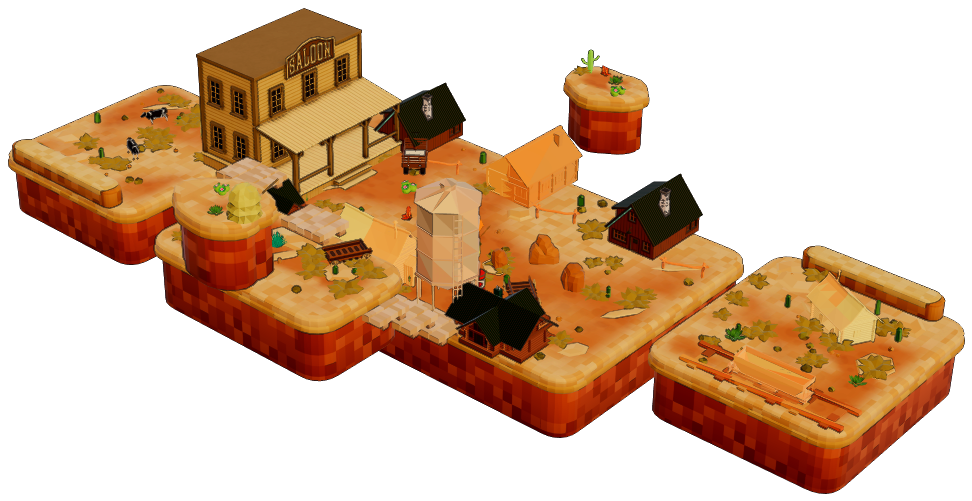
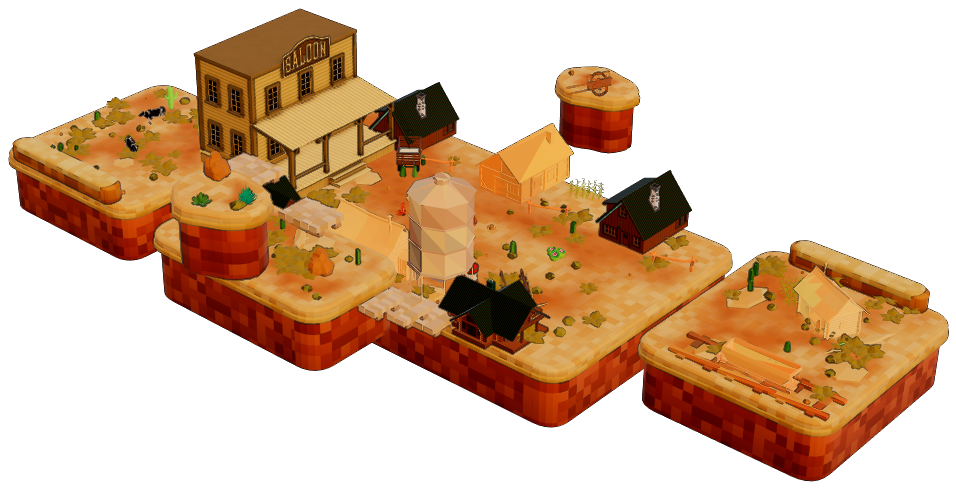
BARCO + NO1314 (Toni 28/08): el mar pirata recupera su barco, y el generador deja de amenazar dos caratulas que estaban bien
Toni: "el cover de la pantalla de los piratas en el selector derecho, falta el barco pirata, no ha
salido en la imagen".

No era que faltara: era que se le habia borrado el CASCO y habian quedado los muebles. El barco
cuelga de la raiz (scene.add(G), HTML:33926), no de la cinta, asi que no lo apagaba el culling de
segmentos — lo mataba el filtrado de este arnes, y por partida triple:
  :148  szG.x > 55   -> el casco es UNA sola malla y PIR_SHIP_L = 60 clava la eslora en 60
  :150  ctG.y > 16   -> con PIR_SHIP_Y=-2 y hull.y = PIR_SHIP_Y+halfH, el centro cae en ~18.4
  :116  wp.y > 16    -> y este ni siquiera usa el bbox, usa getWorldPosition
Los canones y barriles de cubierta miden 2-3 u y pasaban los tres cortes: de ahi los CANONES
FLOTANDO EN EL VACIO que tenia la caratula vieja.

Se arregla con LISTA BLANCA, no aflojando umbrales. Aflojarlos para el 12 (55->65, 16->40) dejaria
entrar tambien cualquier otra cosa de ese stage que midiera o volara en esos rangos, que es justo
lo que esos numeros estan ahi para matar (mega-suelos y mares de nubes, ver _captura_isla.js:96); y
el corte de :116 no se puede afinar a ojo porque no mide el bbox. `keep:['PIR.ship']` dice la
intencion — el barco ES la isla del mundo 12 — y se autolimita solo, porque PIR.ship solo existe con
STAGE=12. De paso los cuatro umbrales pasan a ser C.maxSz/maxY/minY/pad con los valores de hoy por
defecto: ninguna otra fila los pone, asi que nada cambia, pero queda la palanca.
[…]

Changed region(s): [[0.0, 0.0613, 1.0, 1.0], [0.3033, 0.0, 0.3337, 0.0307], [0.273, 0.0307, 0.3033, 0.0613]]

diff --git a/_captura_islas_todas.js b/_captura_islas_todas.js
@@ -32,12 +32,23 @@ const STAGES = [
   { st: 11, rx: 30, rz: 26, cz: 0  },
   { st: 4,  rx: 32, rz: 27, cz: 0  },
   { st: 5,  rx: 30, rz: 26, cz: 0  },
-  { st: 12, rx: 32, rz: 27, cz: 0  },
+  /* ►BARCO (Toni 28/08: "en el selector falta el barco pirata, no ha salido en la imagen").
+     El barco NO es decorado: es el suelo del mundo 12. Pero mide 60 u de eslora (PIR_SHIP_L,
+     HTML:33711) en UNA sola malla, y con PIR_SHIP_Y=-2 su casco tiene el centro del bbox en y~18.4,
+     asi que los tres cortes de abajo lo mataban por separado. Los canones y barriles de cubierta
+     miden 2-3 u y SI pasaban: por eso la caratura vieja tenia canones flotando en el vacio.
+     Se le da salvoconducto explicito en vez de aflojar los umbrales, que estan ahi por los
+     mega-suelos y los mares de nubes; y `minFrac` baja el liston de la limpieza por manchas, porque
+     con el barco dentro la componente mayor pasa a ser EL BARCO y al 4% de su area se irian los dos
+     islotes con palmera que hoy salen. */
+  { st: 12, rx: 32, rz: 27, cz: 0, keep: ['PIR.ship'], minFrac: 0.015 },
   { st: 7,  rx: 30, rz: 26, cz: 0  },
   { st: 8,  rx: 30, rz: 26, cz: 0  },
   { st: 10, rx: 30, rz: 26, cz: 0  },
-  { st: 13, rx: 30, rz: 26, cz: 0  },
-  { st: 14, rx: 34, rz: 30, cz: 0  },
+  /* NO metas aqui el 13 ni el 14. Cuadrimania y Arena montan su escena en su PROPIO modulo al
+     entrar, y rebuildBelt() no les monta nada: salen en blanco. Sus caratulas son fotos de
+     gameplay y las hace _captura_minis.js. Estaban en esta lista y podian sobrescribir dos PNG
+     que estaban bien. */
 ];
 
 (async () => {
@@ -100,6 +111,21 @@ const STAGES = [
     scene.fog = null; scene.background = null;
 
     /* ---- filtrado: idéntico a _captura_isla.js ---- */
+    /* ►KEEP: salvoconducto por stage. Las rutas de C.keep se resuelven contra el scope del juego
+       (los const de modulo como PIR o BELT no cuelgan de window, pero si son visibles aqui, que es
+       como este mismo script usa scene y _cloudMat), y TODO su subarbol queda exento de los
+       cortes por tamano, por altura y por la elipse. Se autolimita solo: PIR.ship solo existe con
+       STAGE=12. Es preferible a subir los umbrales para ese stage, porque subirlos dejaria entrar
+       tambien cualquier otra cosa que midiera entre 55 y 65 o volara entre 16 y 40 — justo lo que
+       esos numeros estan ahi para matar. */
+    const KEEP = new Set();
+    for(const ruta of (C.keep || [])){
+      let o = null;
+      try{ o = eval(ruta); }catch(e){ console.warn('[keep] no resuelve ' + ruta, e && e.message); }
+      if(o && o.traverse) o.traverse(x => KEEP.add(x));
+    }
+    const MAXSZ = (C.maxSz != null ? C.maxSz : 55), MAXY = (C.maxY != null ? C.maxY : 16),
+          MINY  = (C.minY  != null ? C.minY  : -6), PAD  = (C.pad  != null ? C.pad  : 4);
     { const box = new THREE.Box3(), sz = new THREE.Vector3();
       for(const ch of scene.children){
         if(!ch.isMesh || !ch.visible) continue;
@@ -112,8 +138,8 @@ const STAGES = [
         if(Math.abs(s.x) < 34) central = s;
       }
       const wp = new THREE.Vector3();
-      scene.traverse(o => { if(o.isMesh && o.visible){ o.getWorldPosition(wp);
-        if(wp.y > 16 || Math.abs(wp.x) > 32) o.visible = false;
+      scene.traverse(o => { if(o.isMesh && o.visible){ if(KEEP.has(o)) return; o.getWorldPosition(wp);
+        if(wp.y > MAXY || Math.abs(wp.x) > 32) o.visible = false;
         else if(typeof _cloudMat!=='undefined' && o.material === _cloudMat) o.visible = false;
       } });
       if(central && central.group){
@@ -121,10 +147,10 @@ const STAGES = [
         const RX = C.rx || 27, RZ = C.rz || 24, CZ = (C.cz != null ? C.cz : -3), CX = C.cx || 0;
         const vivos = [];
         for(const ch of [...central.group.children]){
-          if(!ch.visible) continue;
+          if(!ch.visible || KEEP.has(ch)) continue;
           try{ bb.setFromObject(ch); bb.getCenter(ctr); }catch(e){ continue; }
           const szc = bb.getSize(new THREE.Vector3());
-          if(szc.x > 55 || szc.z > 55) continue;
+          if(szc.x > MAXSZ || szc.z > MAXSZ) continue;
           const ex = (ctr.x - CX)/RX, ez = (ctr.z - CZ)/RZ;
           if(ex*ex + ez*ez > 1){ ch.visible = false; continue; }
           vivos.push({ ch, b: bb.clone() });
@@ -143,13 +169,14 @@ const STAGES = [
       { const bbG = new THREE.Box3(), szG = new THREE.Vector3(), ctG = new THREE.Vector3();
         const RXg = C.rx || 22, RZg = C.rz || 19, CZg = (C.cz != null ? C.cz : -3), CXg = C.cx || 0;
         scene.traverse(o => { if(!o.isMesh || !o.visible) return;
+          if(KEEP.has(o)) return;
           if(o.isSkinnedMesh){ o.visible = false; return; }
           try{ bbG.setFromObject(o); bbG.getSize(szG); bbG.getCenter(ctG); }catch(e){ return; }
-          if(szG.x > 55 || szG.z > 55){ o.visible = false; return; }
+          if(szG.x > MAXSZ || szG.z > MAXSZ){ o.visible = false; return; }
           const ex = (ctG.x - CXg)/RXg, ez = (ctG.z - CZg)/RZg;
-          if(ex*ex + ez*ez > 1 || ctG.y > 16 || ctG.y < -6){ o.visible = false; return; }
-          if(bbG.min.x < CXg-RXg-4 || bbG.max.x > CXg+RXg+4 ||
-             bbG.min.z < CZg-RZg-4 || bbG.max.z > CZg+RZg+4) o.visible = false;
+          if(ex*ex + ez*ez > 1 || ctG.y > MAXY || ctG.y < MINY){ o.visible = false; return; }
+          if(bbG.min.x < CXg-RXg-PAD || bbG.max.x > CXg+RXg+PAD ||
+             bbG.min.z < CZg-RZg-PAD || bbG.max.z > CZg+RZg+PAD) o.visible = false;
         });
       }
     }
@@ -237,7 +264,7 @@ const STAGES = [
         sizes[nextL] = sz;
       }
       let big = 0; for(let l = 1; l <= nextL; l++) if(sizes[l] > (sizes[big]||0)) big = l;
-      const min = (sizes[big]||0)*0.04;
+      const min = (sizes[big]||0) * (C.minFrac != null ? C.minFrac : 0.04);   // ►BARCO: bajable por stage, ver minFrac en STAGES
       minX = W; minY = H; maxX = 0; maxY = 0;
       for(let p = 0; p < W*H; p++){
         if(d[p*4+3] > 0 && (lab[p] === 0 || sizes[lab[p]] < min)) d[p*4+3] = 0;
